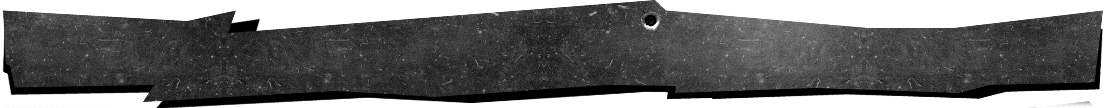
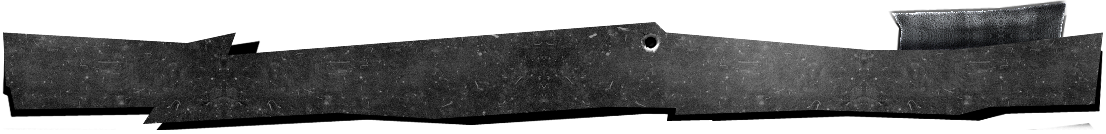
Added a section main header

diff --git a/css/style.css b/css/style.css
@@ -1,4 +1,4 @@
-/*  
+/*  
 COLORS :
 
 #caa171 - top header  link orange.
@@ -7,6 +7,7 @@ COLORS :
     2. RESET   STYLES
     3. GENERAL STYLES
     4. HEADER  STYLES
+    5. SECTION MAIN STYLES
 */
 
 /*1. FONT    STYLES*/
@@ -98,6 +99,12 @@ a {
 a:hover {
     text-decoration: underline;
 }
+strong {
+    color: #fff;
+    display: block;
+    text-shadow: -1px 2px 2px rgba(0,0,0, .77);
+    text-transform: uppercase;
+}
 .f-left {
     float: left;
 }
@@ -143,7 +150,7 @@ footer {
     padding: 0 30px 0 0;
 }
 .center-header {
-    height: 230px;
+    height: 215px;
     margin: 20px 0 0 0;
 }
 .center-header .wrap-logo {
@@ -166,12 +173,12 @@ footer {
 }
 .bottom-header .wrapper {
     height: 108px;
-    background: url(../i/markup/bg-main-menu.png) no-repeat;
 }
 .main-menu-list {
     font-family: 'franklin_gothic_medium_condRg';
-    line-height: 108px;
+    line-height: 150px;
     padding: 0 30px;
+    background: url(../i/markup/bg-main-menu.png) no-repeat;
 }
 .main-menu-list__item {
     float: left;
@@ -182,13 +189,12 @@ footer {
     color: #f3c38b;
 }
 .main-menu-list--second {
-    background: url(../i/markup/bg-main-menu-second.png) no-repeat;
     width: 182px;
-    height: 56px;
+    height: 52px;
     position: absolute;
-    top: -20px;
-    right: 100px;
-    line-height: 56px;
+    top: 16px;
+    right: 34px;
+    line-height: 17px;
 }
 .main-menu-list--second__item {
     float: left;
@@ -201,4 +207,16 @@ footer {
 }
 .main-menu-list--second .top-header__item--stick {
     padding: 0 12px;
+}
+.main-top-header {
+    height: 210px;
+    background: url(../i/markup/bg-main-menu-bottom.png) no-repeat;
+    padding: 30px;
+    box-sizing: border-box;
+}
+
+/*5. SECTION MAIN STYLES*/
+
+.main-top-header strong {
+    font-size: 30px;
 }

diff --git a/index.html b/index.html
@@ -77,6 +77,12 @@
 
 		<div class="wrapper">
 			
+			<div class="main-top-header">
+				
+				<strong>самое важное :</strong>
+
+			</div>
+
 		</div>
 
 	</section>
